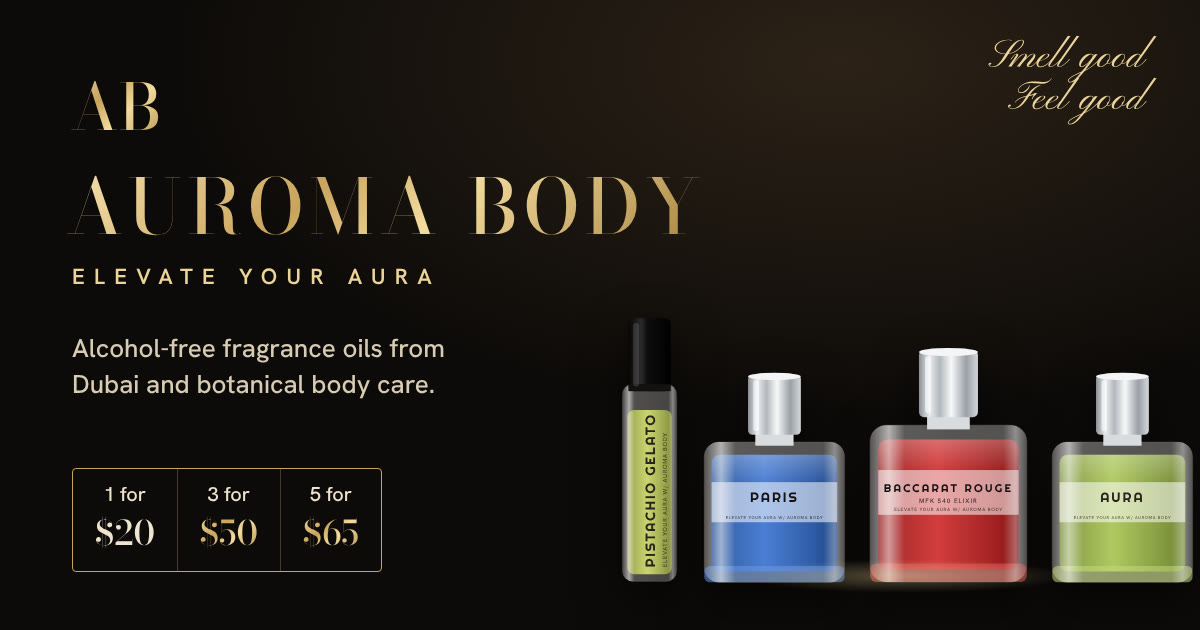
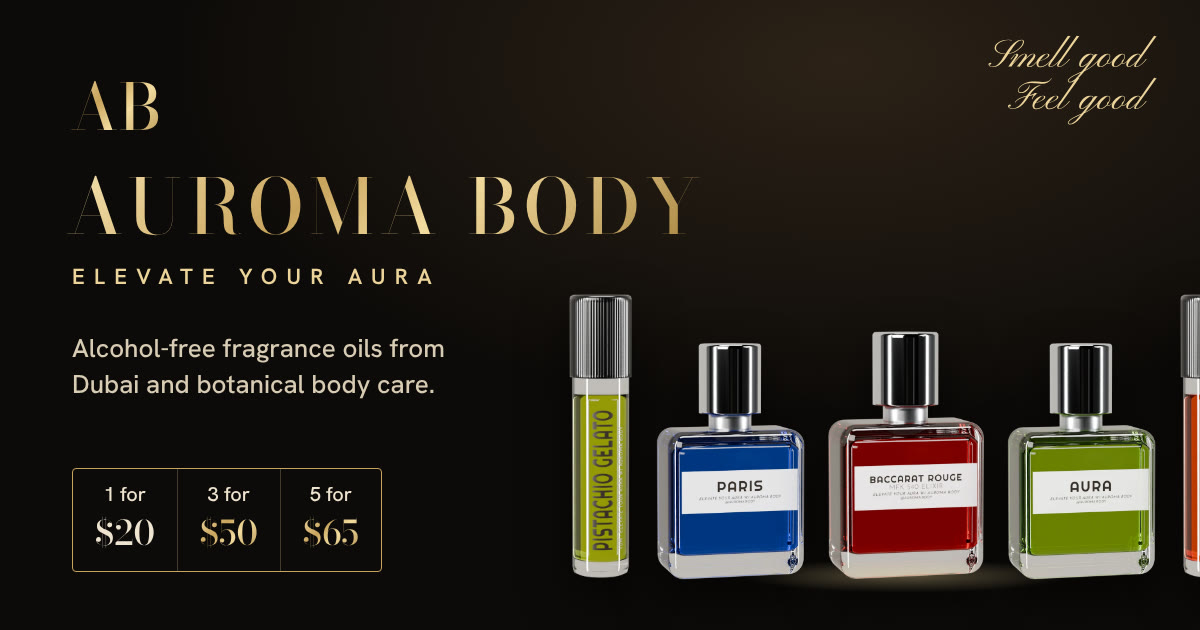
AUROMA BODY: photoreal Blender bottle renders across the site and in the sprayer intro
Claude-Session: https://claude.ai/code/session_01LLUpzQsT57yuc9pnTAzjB7

Changed region(s): [[0.4625, 0.4524, 1.0, 0.9349]]

diff --git a/auromabody/index.html b/auromabody/index.html
@@ -10,14 +10,14 @@
 <meta property="og:url" content="https://auromabody.vercel.app/">
 <meta property="og:title" content="AUROMA BODY | Luxury Fragrance Oils and Botanical Body Care">
 <meta property="og:description" content="AUROMA BODY: alcohol-free fragrance oils imported from Dubai, 7 mL roll-ons and premium bottles, plus botanical body oils, whipped shea butters and soaps. Mix and match bundles: 3 for $50, 4 for $65, get the 5th free.">
-<meta property="og:image" content="https://auromabody.vercel.app/media/og.jpg?v=mwma66l7">
+<meta property="og:image" content="https://auromabody.vercel.app/media/og.jpg?v=mwmbn3qh">
 <meta property="og:image:width" content="1200">
 <meta property="og:image:height" content="630">
 <meta property="og:image:alt" content="AUROMA BODY | Luxury Fragrance Oils and Botanical Body Care">
 <meta name="twitter:card" content="summary_large_image">
 <meta name="twitter:title" content="AUROMA BODY | Luxury Fragrance Oils and Botanical Body Care">
 <meta name="twitter:description" content="AUROMA BODY: alcohol-free fragrance oils imported from Dubai, 7 mL roll-ons and premium bottles, plus botanical body oils, whipped shea butters and soaps. Mix and match bundles: 3 for $50, 4 for $65, get the 5th free.">
-<meta name="twitter:image" content="https://auromabody.vercel.app/media/og.jpg?v=mwma66l7">
+<meta name="twitter:image" content="https://auromabody.vercel.app/media/og.jpg?v=mwmbn3qh">
 <link rel="apple-touch-icon" href="https://auromabody.vercel.app/media/apple-touch-icon.png">
 <meta name="robots" content="noai, noimageai">
 <meta name="theme-color" content="#0d0b09">
@@ -154,9 +154,9 @@ h3{font-size:1.0625rem}
 .grid{display:grid;grid-template-columns:1fr 1fr;gap:14px 12px}
 .card{position:relative;display:flex;flex-direction:column}
 .card .ph{position:relative;aspect-ratio:3/4;background:linear-gradient(180deg,#fff,var(--champ));border-radius:4px;overflow:hidden;display:grid;place-items:center;max-height:38svh}
-.card .ph img.rb{height:80%;width:auto;object-fit:contain;filter:drop-shadow(0 12px 16px rgba(60,40,10,.25));transition:transform .7s var(--out)}
+.card .ph img.rb{position:absolute;left:50%;top:50%;height:82%;width:auto;max-width:none;object-fit:contain;translate:-50% -50%;filter:drop-shadow(0 14px 16px rgba(60,40,10,.28));transition:transform .7s var(--out)}
 .card .ph img{width:100%;height:100%;object-fit:cover;transition:transform .9s var(--out)}
-.card:hover .ph img.rb{transform:translateY(-6px) rotate(-3deg) scale(1.03)}
+.card:hover .ph img.rb{transform:translateY(-6px) rotate(-2.5deg) scale(1.03)}
 .card:hover .ph img{transform:scale(1.05)}
 .card .ph::after{content:"";position:absolute;inset:0;background:linear-gradient(115deg,transparent 35%,rgba(255,255,255,.55) 50%,transparent 65%);transform:translateX(-110%);transition:transform 1s var(--out);pointer-events:none}
 .card:hover .ph::after{transform:translateX(110%)}
@@ -236,7 +236,7 @@ h3{font-size:1.0625rem}
 /* product page */
 .pd{display:grid;gap:18px;padding:12px 0 30px}
 .gal{position:relative;background:radial-gradient(80% 80% at 50% 30%,#fff,var(--champ));border-radius:4px;aspect-ratio:1/1;max-height:52svh;display:grid;place-items:center;overflow:hidden}
-.gal img.rb{height:84%;width:auto;object-fit:contain;filter:drop-shadow(0 24px 26px rgba(60,40,10,.28));animation:float 6s ease-in-out infinite}
+.gal img.rb{position:absolute;left:50%;top:50%;height:84%;width:auto;max-width:none;object-fit:contain;translate:-50% -50%;filter:drop-shadow(0 24px 26px rgba(60,40,10,.3));animation:float 6s ease-in-out infinite}
 .gal img{width:100%;height:100%;object-fit:cover}
 .gal canvas{position:absolute;inset:0;width:100%;height:100%;pointer-events:none}
 .gal .spray{position:absolute;right:12px;bottom:12px;z-index:2}
@@ -410,7 +410,7 @@ footer .fs{text-align:center;font-size:.6875rem;letter-spacing:.2em;text-transfo
 #intro .tg{font-size:.6875rem;letter-spacing:.5em;color:var(--goldL);margin-top:10px;opacity:0;padding-left:.5em}
 #intro .shn{position:absolute;inset:-20% -40%;background:linear-gradient(105deg,transparent 42%,rgba(255,240,200,.35) 50%,transparent 58%);transform:translateX(-60%);opacity:0;pointer-events:none}
 #intro .sprayer{position:absolute;left:50%;bottom:-2%;width:min(42vw,210px);transform:translate(-50%,110%);z-index:3}
-#intro .sprayer{aspect-ratio:var(--sar,1000/1100)}
+#intro .sprayer{aspect-ratio:576/900}
 #intro .sprayer img{position:absolute;inset:0;width:100%;height:100%;display:block;filter:drop-shadow(0 30px 40px rgba(0,0,0,.6))}
 #intro .sprayer .s-nocap,#intro .sprayer .s-cap{opacity:0}
 #intro .sprayer .s-cap{filter:none;transform-origin:50% 20%}
@@ -783,7 +783,7 @@ function A(el,k,o){if(!el)return;var a=el.animate(k,Object.assign({fill:'both',e
 function finish(){if(done)return;done=true;cancelAnimationFrame(raf);anims.forEach(function(a){try{a.cancel()}catch(e){}});intro.remove();body.classList.remove('lock');}
 spr.innerHTML='<img class="s-full" src="media/b/intro-full.webp" alt=""><img class="s-nocap" src="media/b/intro-nocap.webp" alt=""><img class="s-cap" src="media/b/intro-cap.webp" alt="">';
 var cv=qi('#mist'),cx=fit(cv),W=cv.clientWidth,H=cv.clientHeight,parts=[],spraying=false,born=0;
-var NX=0,NY=0,NXF=.5,NYF=.12;function nozzle(){var r=spr.getBoundingClientRect();NX=r.left+r.width*NXF;NY=r.top+r.height*NYF;}
+var NX=0,NY=0,NXF=.4948,NYF=.1836;function nozzle(){var r=spr.getBoundingClientRect();NX=r.left+r.width*NXF;NY=r.top+r.height*NYF;}
 function emit(n){for(var i=0;i<n;i++){var a=-Math.PI/2+(Math.random()-.5)*2.6,sp=.6+Math.random()*2.4;parts.push({x:NX+(Math.random()-.5)*6,y:NY,vx:Math.cos(a)*sp,vy:Math.sin(a)*sp*.8,r:3+Math.random()*5,l:1,a:0,g:Math.random()<.55});}}
 function sprite(col){var s=document.createElement('canvas');s.width=s.height=64;var g=s.getContext('2d'),gr=g.createRadialGradient(32,32,0,32,32,32);gr.addColorStop(0,col);gr.addColorStop(1,'rgba(236,212,154,0)');g.fillStyle=gr;g.fillRect(0,0,64,64);return s;}
 var SPA=sprite('rgba(255,236,190,1)'),SPB=sprite('rgba(255,250,236,1)');
